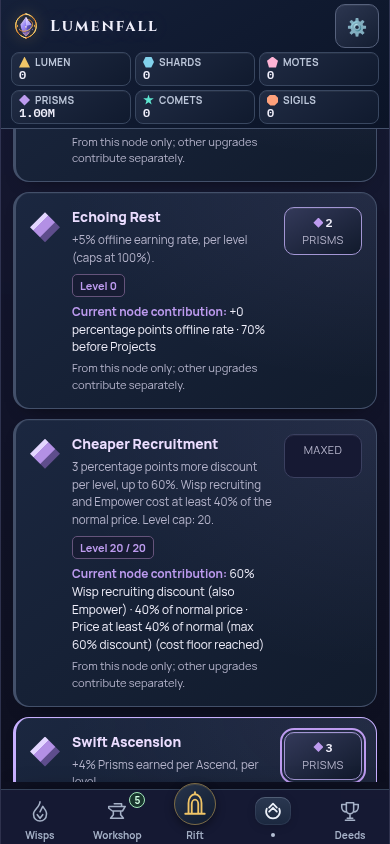
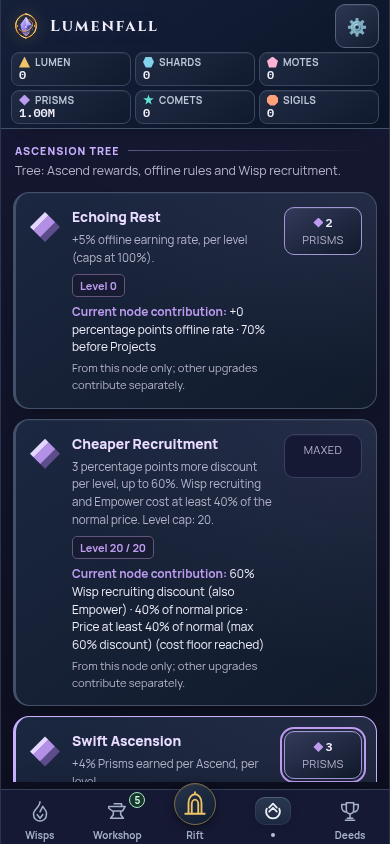
Keep mature restitution spendable and verify current Tree owners

diff --git a/tests/behavioral/cheaper-refund.js b/tests/behavioral/cheaper-refund.js
@@ -25,10 +25,11 @@ window.runCheaperRefundContracts=function(){
   });
   var s=b.canonical(cheaperLegacySeed(21,0));ok(s.prisms===3376,'documented level21 refund exactly 3376');
   s=b.canonical(cheaperLegacySeed(40,0));ok(s.prisms===12655538,'documented level40 refund exactly 12655538');
+  s=b.canonical(cheaperLegacySeed(21,0.1));ok(s.prisms===0.1&&s.refundCredits.prisms[0].amount===3376,'fractional original wallet retains exact refund value');
   var v0=cheaperLegacySeed(21,17);delete v0.schemaVersion;s=b.canonical(v0);
   ok(s.prisms===3393&&s.schemaVersion===1,'v0 migrates before one-time restitution');
   s=b.canonical(cheaperLegacySeed(21,1e30));ok(s.prisms===1e30&&s.refundCredits.prisms[0].amount===3376,'small refund stays exact beside huge wallet');
-  b.set(s);b.render();ok(!document.querySelector('[data-node="starlight"]').disabled,'credit purchase enabled');
+  b.set(s);b.render();ok(!document.querySelector('[data-node="swift"]').disabled,'credit purchase enabled');
   var original=balance(b.get());
   for(var i=0;i<20;i++){
     var next=b.get();next.nodes.swift=0;b.set(next);var cost=3,before=balance(b.get());b.buy({id:'swift'});
@@ -43,11 +44,13 @@ window.runCheaperRefundContracts=function(){
   b.buy({id:'swift'});same(b.get(),before,'unspendable small debit retains entire credit');
   ok(b.payment(large.amount).prisms===0&&b.payment(large.amount).credits.length===0,'whole large credit can pay exactly');
   s=b.canonical(cheaperLegacySeed(95,0));
-  ok(s.prisms>Number.MAX_SAFE_INTEGER&&s.refundCredits.prisms.length===0,'actual refund creates large wallet fixture');
-  b.set(s);before=b.get();var disk=b.disk();
+  ok(s.prisms<=Number.MAX_SAFE_INTEGER&&s.refundCredits.prisms.length>0,'large restitution stays spendable as exact credits');
+  b.set(s);var refunded=balance(b.get());b.buy({id:'swift'});
+  ok(b.get().nodes.swift===1&&balance(b.get())===refunded-BigInt(3),'actual raw95 refund pays original Swift price exactly');
+  s=b.canonical(cheaperLegacySeed(21,1e30));s.refundCredits.prisms=[];b.set(s);before=b.get();var disk=b.disk();
   ok(!b.payment(1),'unrepresentable wallet debit cannot buy a free level');
   b.buy({id:'swift'});same(b.get(),before,'wallet rejection retains exact original value');same(b.disk(),disk,'wallet rejection never saves');
-  b.set(s);var value=balance(b.get());b.buy({id:'echo'});
+  s.prisms=9007199254740992;b.set(s);var value=balance(b.get());b.buy({id:'echo'});
   ok(b.get().nodes.echo===1&&balance(b.get())===value-BigInt(2),'representable large-wallet debit pays exactly');
   // Preserve receipts actually generated by V8 6.0 across engine transitions.
   var compatible=b.canonical(cheaperLegacySeed(2000,0));compatible.feedbackMigration.receipts['node.bonds'].amounts.prisms=cheaperReceiptLegacyPrices.slice();

diff --git a/index.html b/index.html
@@ -3719,7 +3719,9 @@ function normalizeCheaperRecruitmentRefund(out,source){
   if(out.feedbackMigration.version!==1) throw persistenceError('invalid-bonds-refund','Recruitment refund version needs recovery');
   amounts.forEach(function(amount){
     var sum=exactPrismArithmetic(out.prisms,amount);
-    if(sum!==null) out.prisms=sum;
+    // Keep new restitution spendable at whole-Prism prices. Existing mature
+    // wallets are preserved; excess refunds remain exact original credits.
+    if(sum!==null && sum<=Number.MAX_SAFE_INTEGER) out.prisms=sum;
     else credits.push({id:id,amount:amount});
   });
   out.feedbackMigration.receipts[id]={from:20,to:raw,unpricedFrom:unpricedFrom,amounts:{prisms:amounts}};

diff --git a/docs/tasks/CHEAPER_BONDS_CAP_001.md b/docs/tasks/CHEAPER_BONDS_CAP_001.md
@@ -29,12 +29,11 @@ Domain/save review is performed here; no independent Core/QA approval is claimed
 
 ## Baseline, isolation and overlap
 
-- Current main rechecked 8 October: `4ff0ae3025a6e57ba3332280f3db6f65bf5ddf4b`.
-  PR77/87 Save Backup and PR76 Formation autosave merged at a7ce553; assertions kept.
+- Current main rechecked 8 October: `31eccfbad40622f65cf3d34d268f0d7ef3c6a4a6`.
+  Save Backup, Formation, Auto-Ascend and upgrade ownership merged; guards kept.
   Private branch `feature/cheaper-bonds-cap-001`, worktree
   `/workspace/CHEAPER_BONDS_CAP_001`; clean original checkout untouched.
-- Original local freeze9342dbd on main0bcce84 is preserved in Git history and the
-  historical evidence package. Its patch rebased cleanly onto current main.
+- Historical cap-only freeze9342dbd remains in Git and the archived evidence.
 - PR46/B2 is now merged at20aaae62a4b6e46f8d75775085918eaba4e8de29. Current main
   contains the paid Lab/Number-DataView/offline fixes and APK143 delivery evidence.
   This feature neither reimplements nor changes those systems.
@@ -75,7 +74,7 @@ Do not turn unavailable required acceptance into a passing claim.
 cap-only candidate's132 scenarios/383 checks; those are not current acceptance.
 The first new migration oracle caught erased original value at extreme raw2000;
 [raw failure](../qa/cheaper-bonds-cap-001/finish/migration-initial-loss.json) is
-preserved. The final local candidate passes508 assertions/12 mobile profiles,
+preserved. The final local candidate passes511 assertions/12 mobile profiles,
 8 causal controls, V8 6.0 cap/refund/credit, dense layout and941 clarity checks.
 [Current versions/results](../qa/cheaper-bonds-cap-001/finish/README.md) distinguish
 them from required full CI, integration and APK acceptance. Required CI gains focused checks/six causal mutations. Frozen offline state now
@@ -89,5 +88,5 @@ address findings, recheck main/overlap and integrate serially. Recheck integrate
 bytes, verify the resulting signed APK and relevant Android acceptance; save
 task/PROJECT_STATE/evidence in GitHub and stop shared-file work.
 
-PR: [89](https://github.com/karahaNx/Lumenfall/pull/89), published. Integration/APK: pending. Source SHA9e034620 (full hash in evidence). Archive status: **open**. An open PR or local pass
+PR: [89](https://github.com/karahaNx/Lumenfall/pull/89), published. Integration/APK: pending. Current source/hash and all reviewed corrections are recorded in evidence. Archive status: **open**. An open PR or local pass
 is not a finished feature. Archive only this owner chat after verified completion.

diff --git a/docs/qa/cheaper-bonds-cap-001/finish/README.md b/docs/qa/cheaper-bonds-cap-001/finish/README.md
@@ -1,15 +1,15 @@
 # F21 current implementation and verification
 
 Current candidate source SHA256:
[2 lines of base64/hex data omitted]
 Baseline main: `4ff0ae3025a6e57ba3332280f3db6f65bf5ddf4b`.
 [Task](../../../tasks/CHEAPER_BONDS_CAP_001.md) · [Save/value review](DESIGN.md) ·
 [Preflight](preflight.json). Self-review only; no independent-review claim.
 
 | Check | Result/evidence |
 | --- | --- |
-| Real cap/price/effect/chronology | [candidate.json](candidate.json):383 assertions PASS |
-| One-time old-save restitution | Same report:126 assertions, independent BigInt conservation oracle PASS |
+| Real cap/price/effect/chronology | [candidate.json](candidate.json):384 assertions PASS |
+| One-time old-save restitution | Same report:127 assertions, independent BigInt conservation oracle PASS |
 | Mobile |12 width/text/motion profiles at320/390/430px and100%/200%;44px controls, real touch/Tab/Enter/focus, wrapping and all note text contrast >=9.09:1 PASS |
 | Actual persistence | Old21/40/2000 first launch/reload/recovery, two old-backup restores through actual Settings → Save Backup → confirmation, paid Labs, Ascend, primary restore rollback and recovery-write failure PASS |
 | Causal controls | [negative-feature.json](negative-feature.json):8 real source mutations caught with intended assertion,exit1/valid FAIL/clean browser teardown |
@@ -72,3 +72,10 @@ new wallet/receipt causal controls. The cross-engine schedule evidence is in
 receipt-engine-prices.json; complete arrays are the test fixture. The prior
 a7ce553 CI is superseded by these necessary corrections. Native baseline143
 remains prepared; final APK/native acceptance is still pending.
+
+Current main31eccfb includes upgrade ownership and Auto-Ascend controls. Its
+retirement guard is preserved. The20 real credit debits use freshly staged
+Swift level0 (original3-Prism price); they still assert every paid level and exact
+monetary delta. Echo supplies the real2-Prism representable wallet payment.
+Receipt damage now also selects the intact actual recovery slot. New restitution
+above safe integer precision stays in credits; existing wallets are not clamped.

diff --git a/docs/qa/cheaper-bonds-cap-001/finish/DESIGN.md b/docs/qa/cheaper-bonds-cap-001/finish/DESIGN.md
@@ -41,7 +41,8 @@ Current rules supersede old role-approval stages.
 
 ## PR89 review corrections
 
-P1: actual raw95 restitution can create a wallet above integer precision. All
+P1: actual raw95 restitution could create a wallet above integer precision. New refunds above the safe
+integer range now stay as spendable credits; existing wallets are retained. All
 Tree payments now check exact wallet subtraction as well as both credit
 subtractions; representable payments still use the unchanged price. Regression
 covers refusal/no save for1 Prism and a real exact2-Prism debit.
